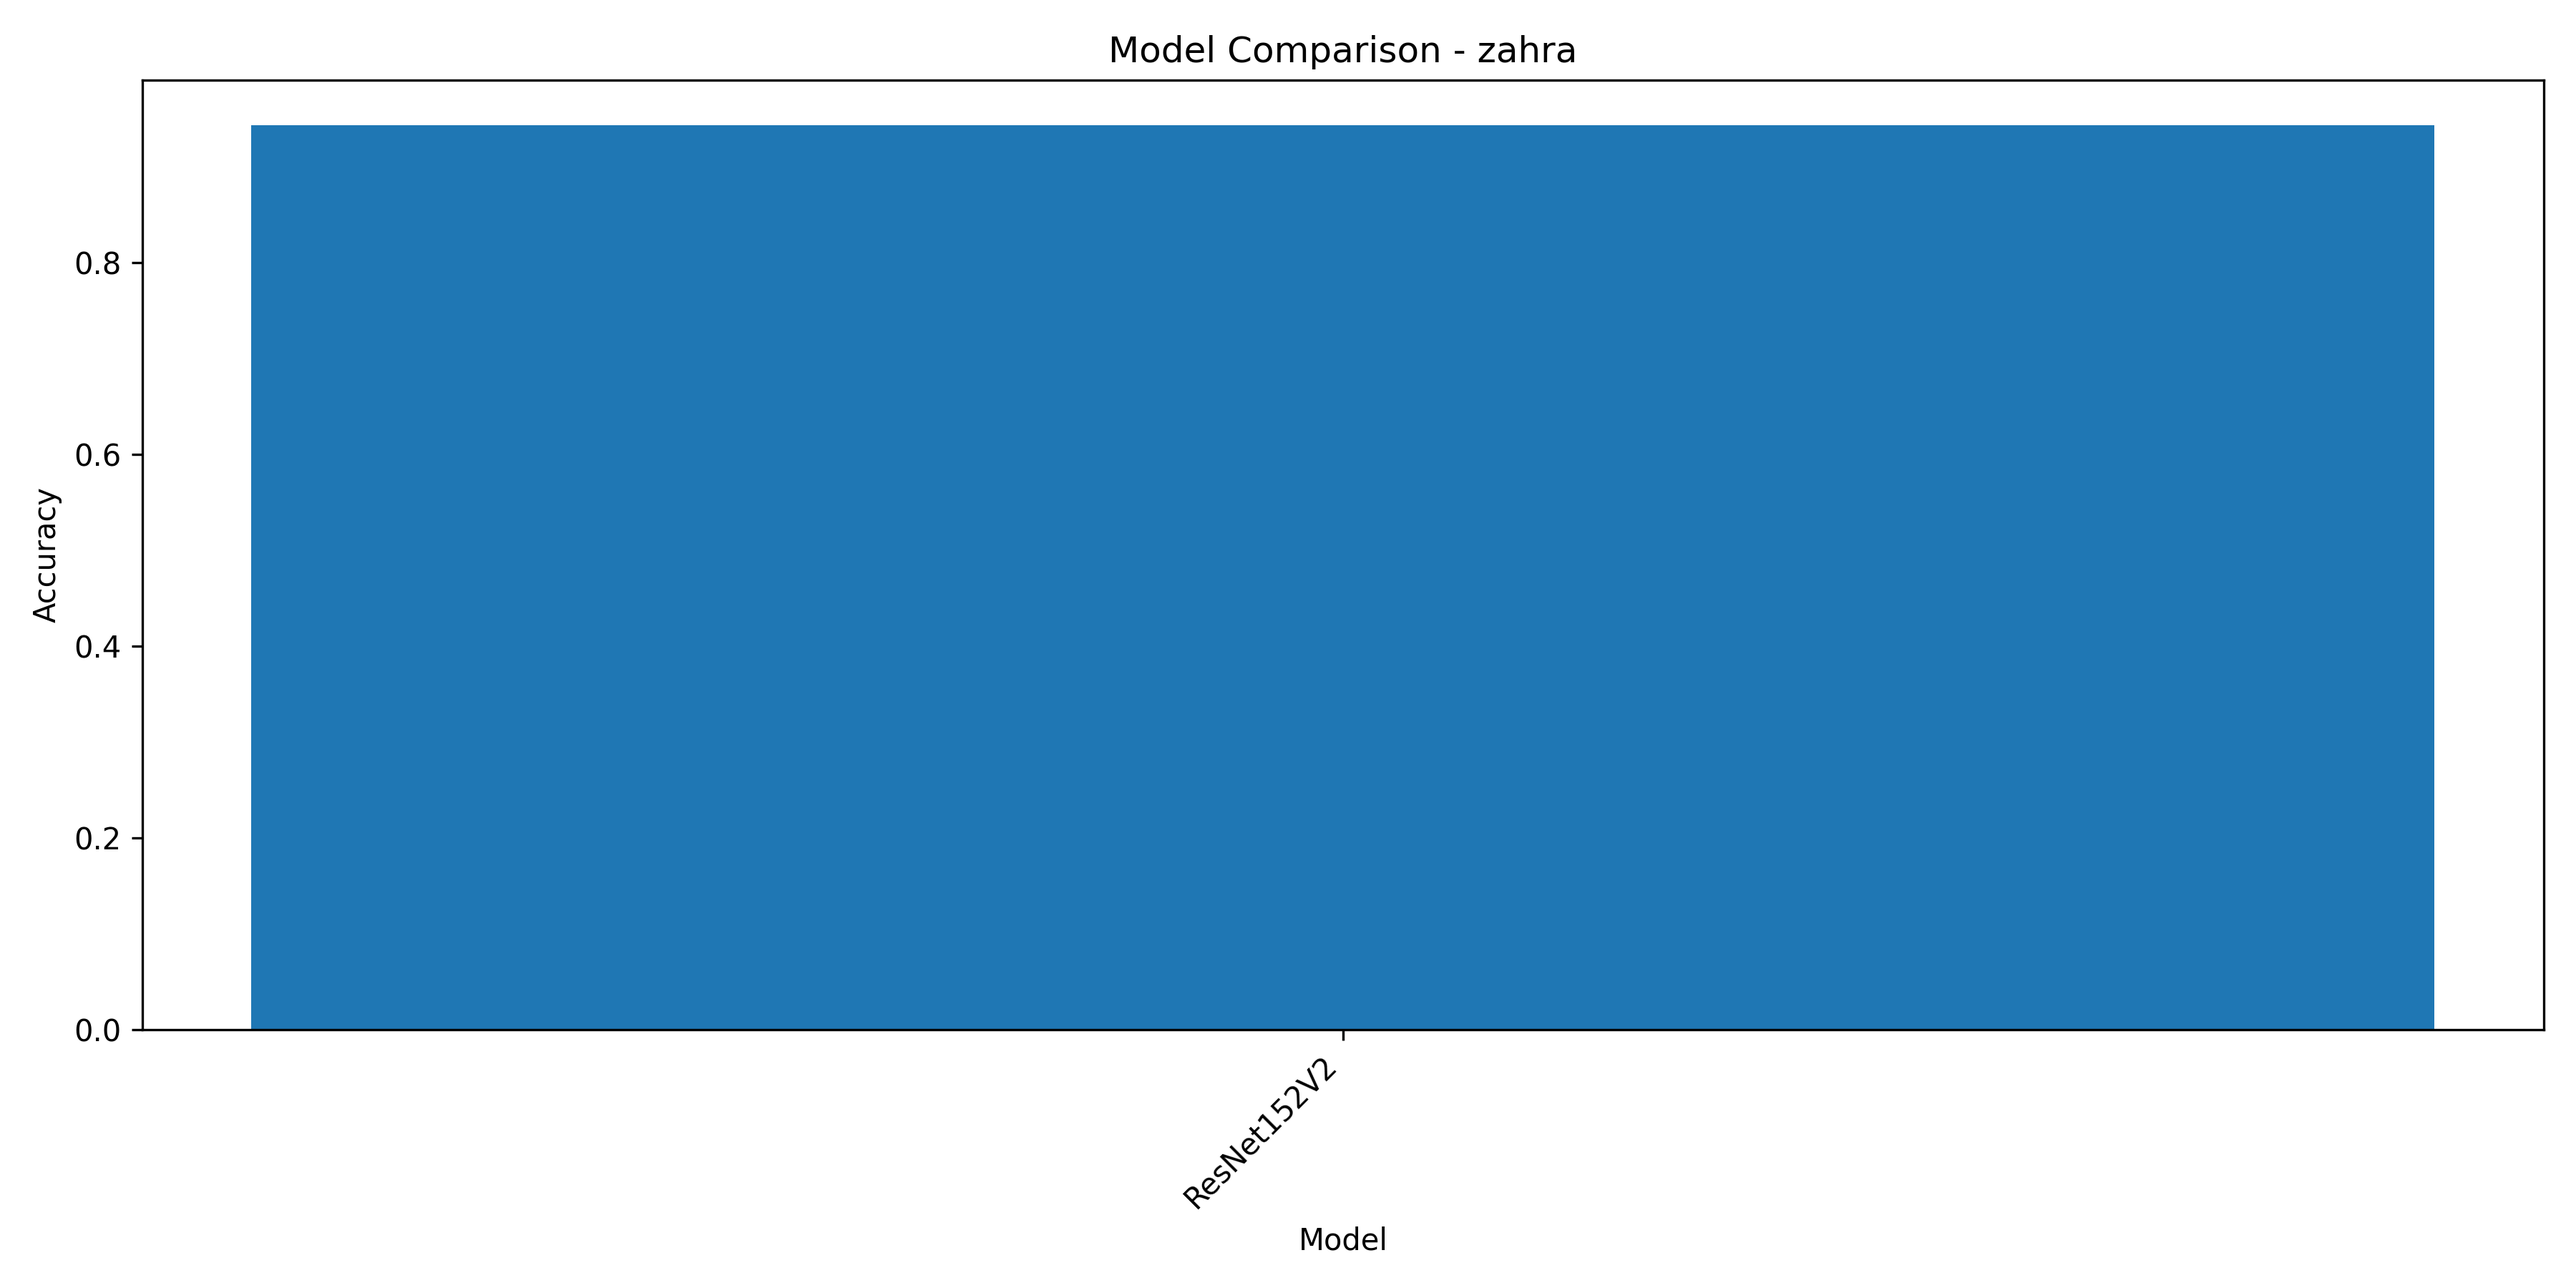
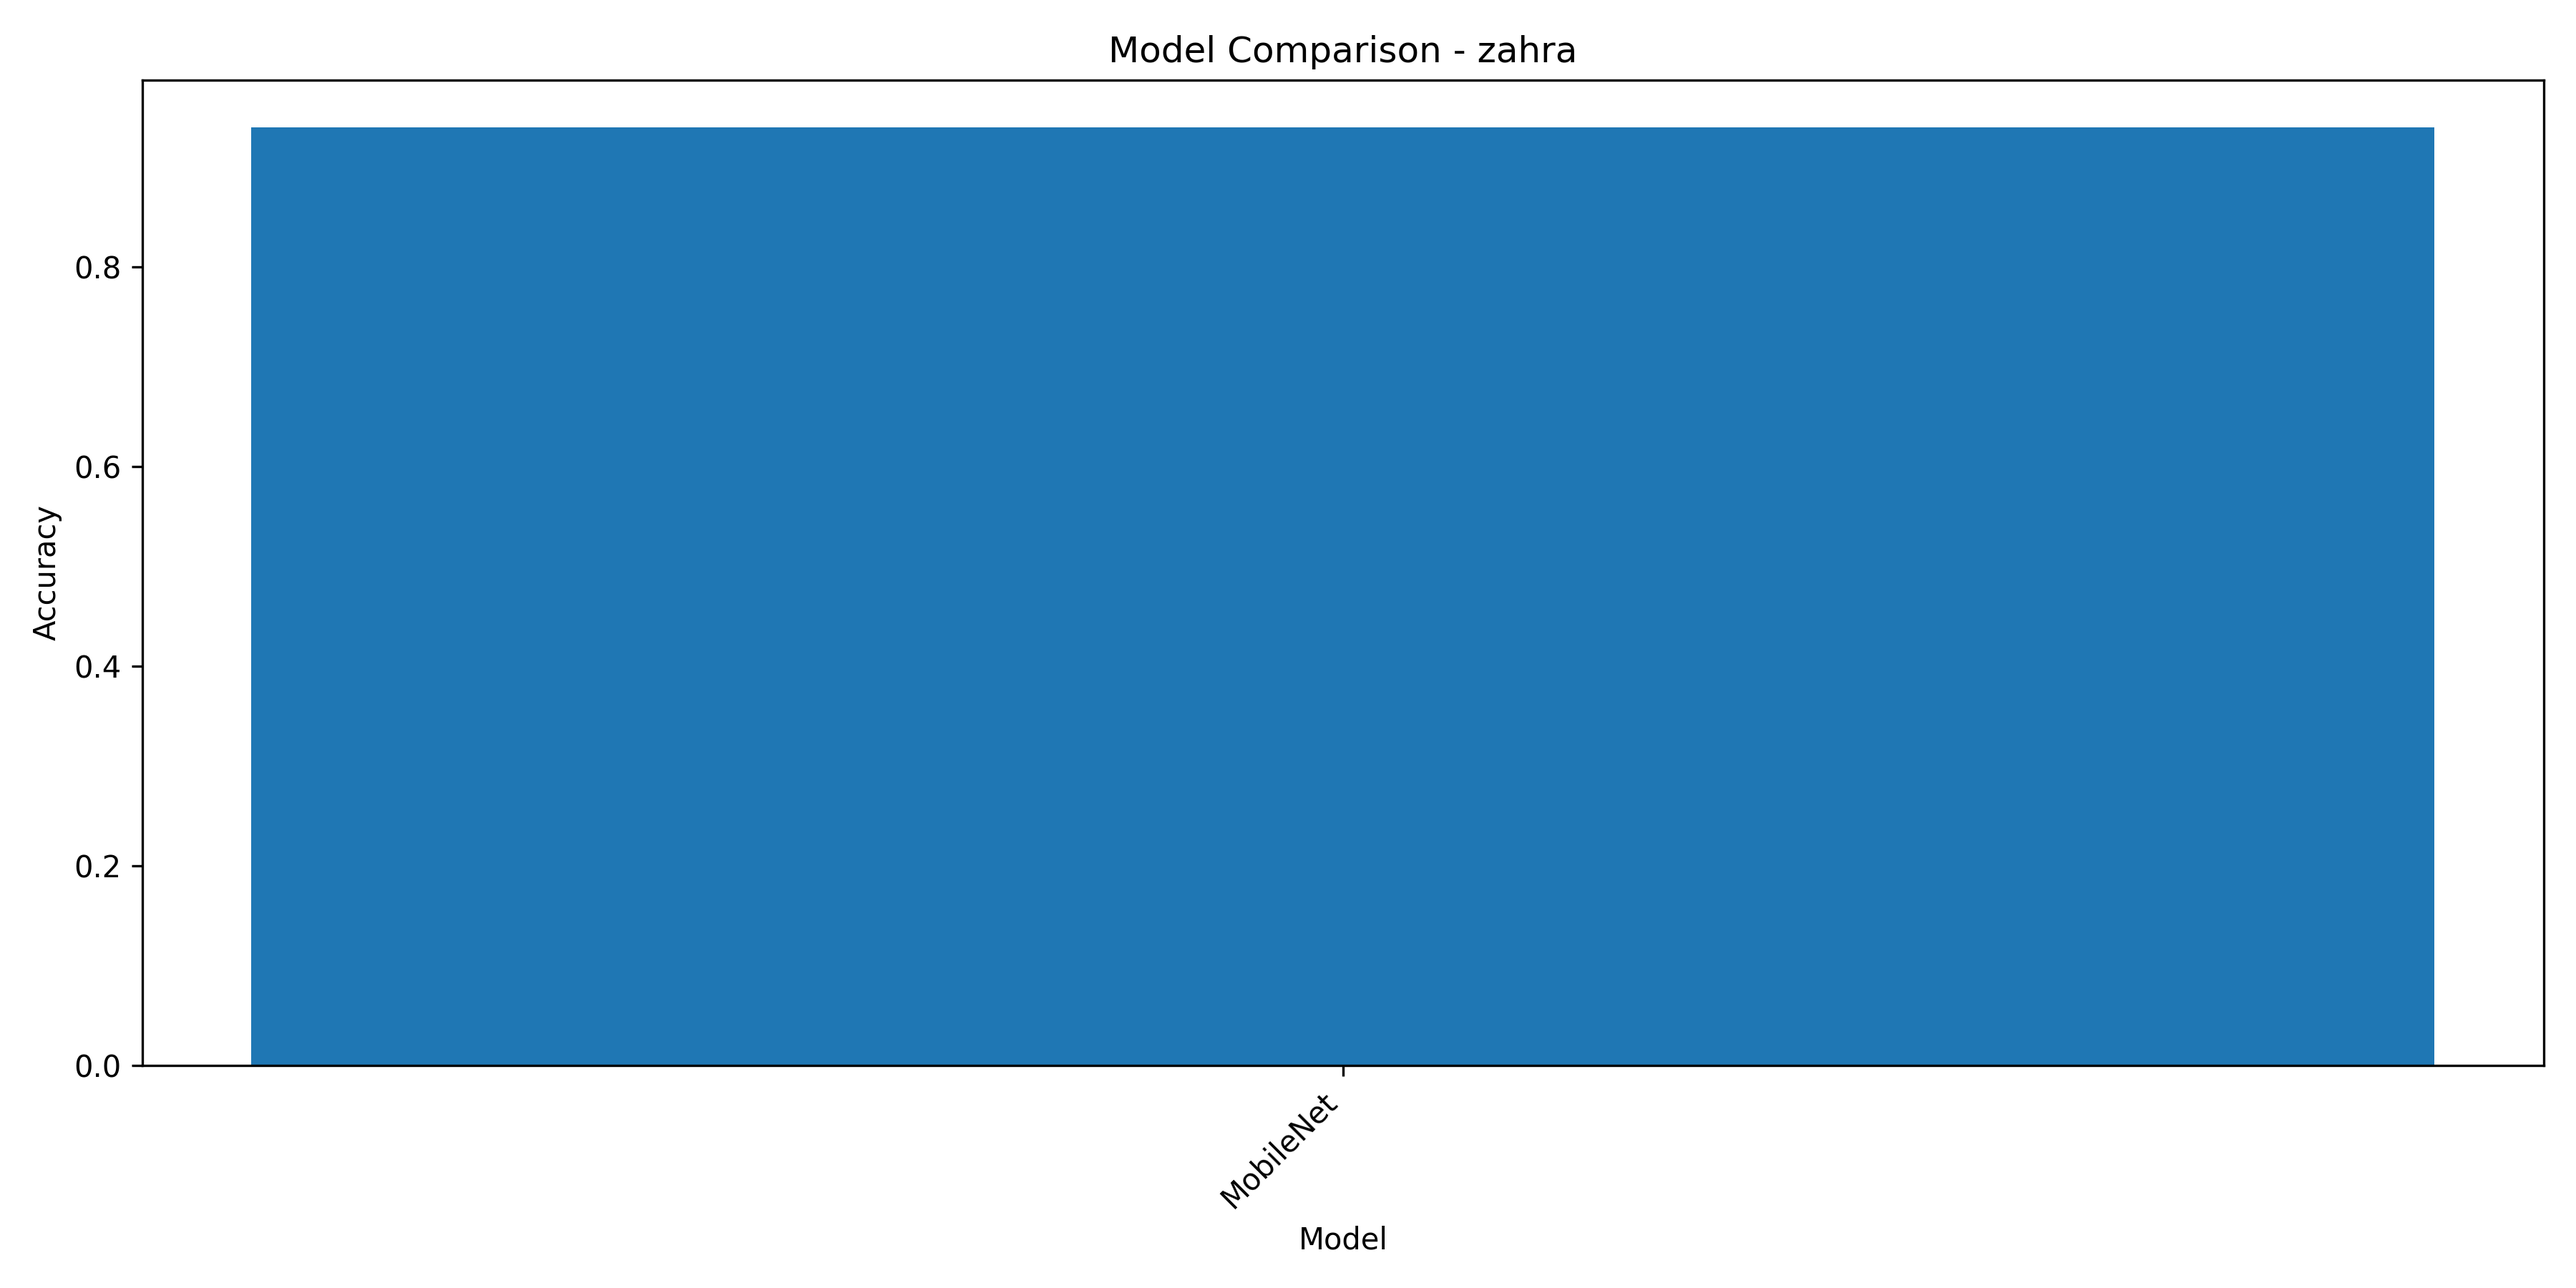
Trained MobileNet - accuracy 93.99%

diff --git a/src/model_factory.py b/src/model_factory.py
@@ -296,7 +296,7 @@ def get_model(model_name, num_classes=15, learning_rate=0.0001):
 
     # Compile model
     model.compile(
-        optimizer=Adam(learning_rate=learning_rate),
+        optimizer=Adam(learning_rate=learning_rate, clipnorm=1.0),
         loss='sparse_categorical_crossentropy',
         metrics=[
             'accuracy',
@@ -309,7 +309,7 @@ def get_model(model_name, num_classes=15, learning_rate=0.0001):
     return model, preprocess_func, input_size
 
 
-def unfreeze_layers(model, num_layers_to_unfreeze=10):
+def unfreeze_layers(model, num_layers_to_unfreeze=10, learning_rate=1e-5):
     """
     Unfreeze top layers for fine-tuning
 
@@ -338,8 +338,8 @@ def unfreeze_layers(model, num_layers_to_unfreeze=10):
 
     # Recompile with lower learning rate for fine-tuning
     model.compile(
-        optimizer=Adam(learning_rate=1e-5),  # Lower LR for fine-tuning
-        loss='categorical_crossentropy',
+        optimizer=Adam(learning_rate=learning_rate, clipnorm=1.0),  # Lower LR for fine-tuning
+        loss='sparse_categorical_crossentropy',
         metrics=[
             'accuracy',
             tf.keras.metrics.Precision(name='precision'),

diff --git a/src/train_keras_models.py b/src/train_keras_models.py
@@ -90,12 +90,12 @@ def train_model(model_name, person_name):
         learning_rate=LEARNING_RATE
     )
 
-        # Recompile with only accuracy to avoid JSON serialization issues with custom metrics
-    model.compile(
-        optimizer=tf.keras.optimizers.Adam(learning_rate=LEARNING_RATE, clipnorm=1.0),
-        loss='sparse_categorical_crossentropy',
-        metrics=['accuracy']
-    )
+    #     # Recompile with only accuracy to avoid JSON serialization issues with custom metrics
+    # model.compile(
+    #     optimizer=tf.keras.optimizers.Adam(learning_rate=LEARNING_RATE, clipnorm=1.0),
+    #     loss='sparse_categorical_crossentropy',
+    #     metrics=['accuracy']
+    # )
     
     # Print model info
     model_info = get_model_info(model)
@@ -159,7 +159,7 @@ def train_model(model_name, person_name):
         print("Phase 2: Fine-tuning top layers")
         print(f"{'='*70}")
         
-        model = unfreeze_layers(model, num_layers_to_unfreeze=10)
+        model = unfreeze_layers(model, num_layers_to_unfreeze=10, learning_rate=1e-5)
         
         history_fine = model.fit(
             train_gen,

diff --git a/src/utils.py b/src/utils.py
@@ -44,7 +44,7 @@ def setup_gpu():
         try:
             for gpu in gpus:
                 # tf.config.experimental.set_memory_growth(gpu, True)
-                tf.config.experimental.set_memory_growth(gpu, False)
+                # tf.config.experimental.set_memory_growth(gpu, False)
                 tf.config.experimental.set_virtual_device_configuration(
                     gpu, 
                     [tf.config.experimental.VirtualDeviceConfiguration(memory_limit=7000)]  # 7GB limit
